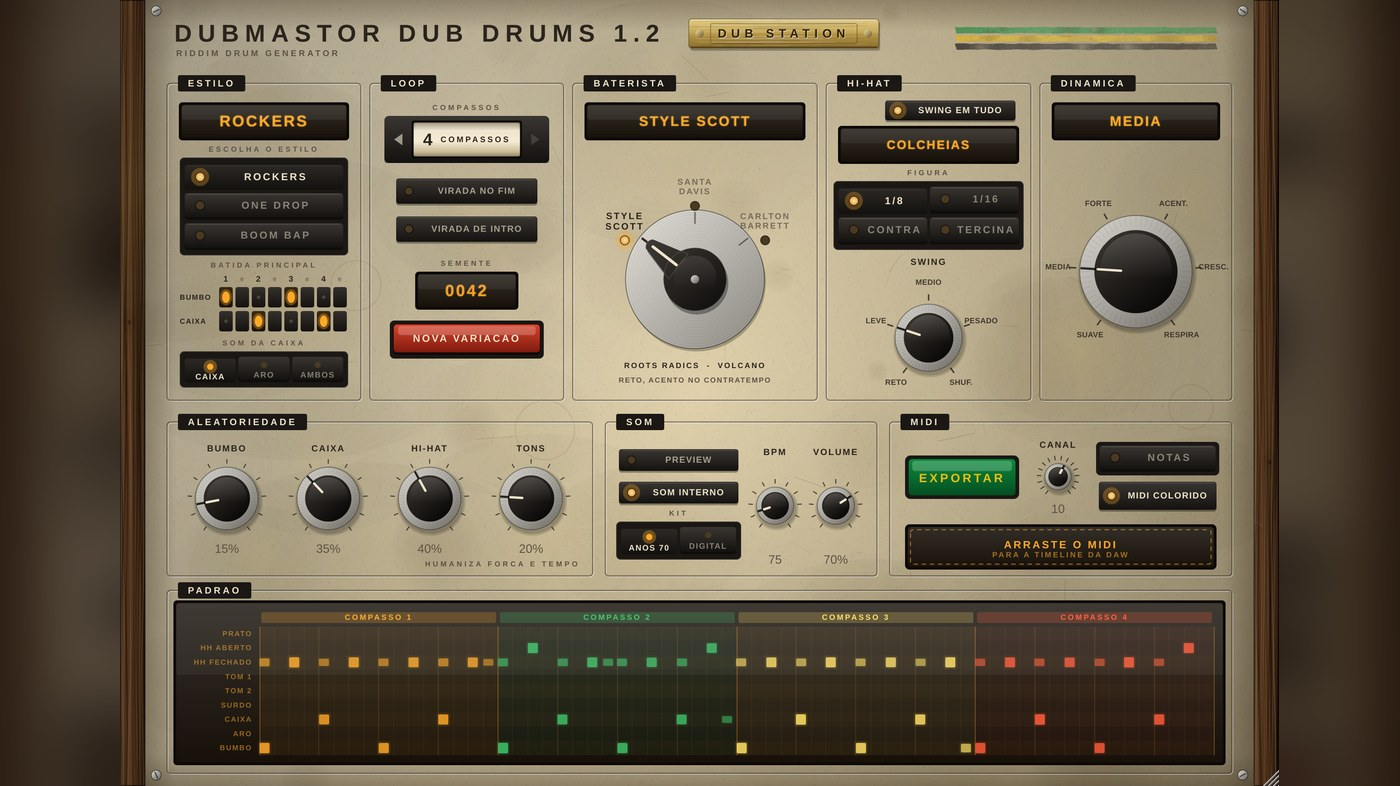
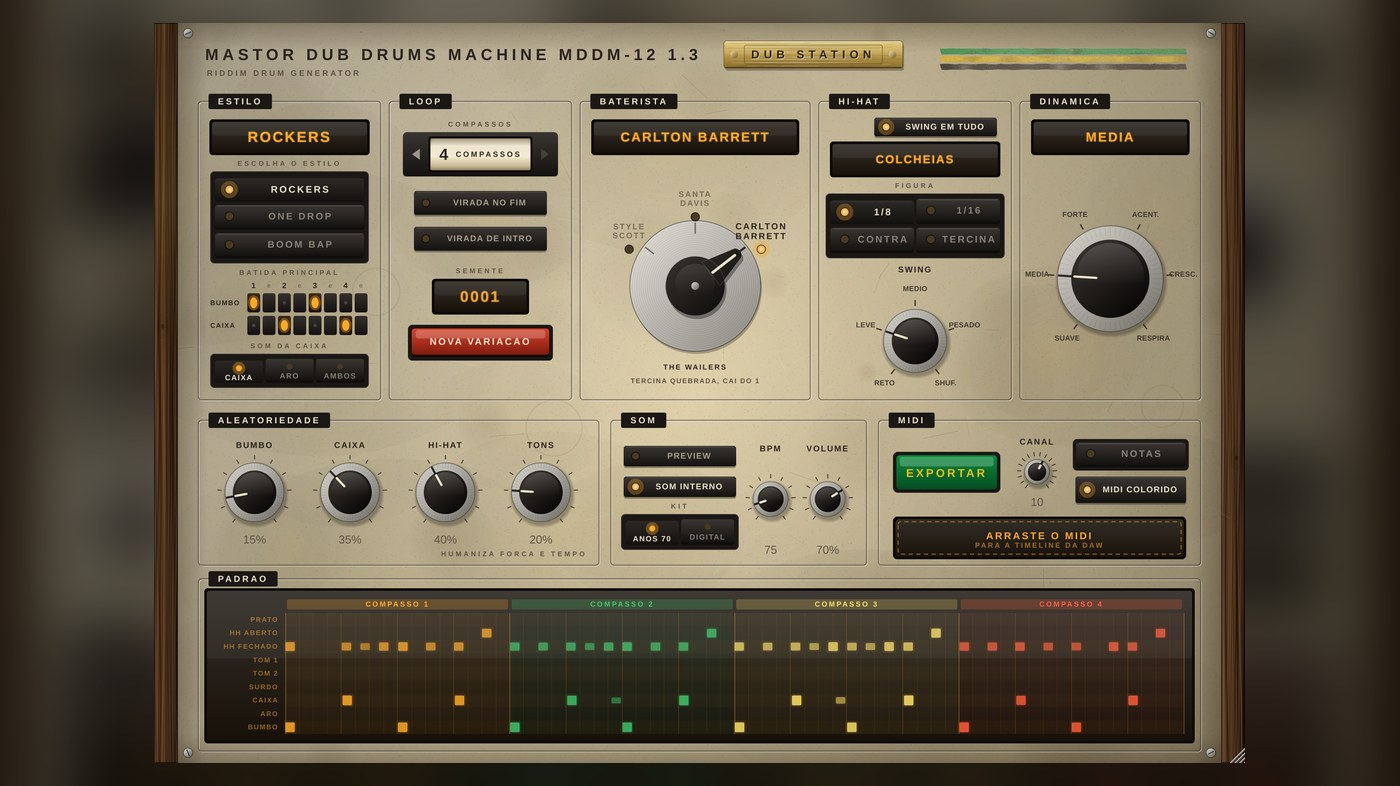
Mastor Dub Drums Machine MDDM-12 1.3 (antigo Dub Drums): nome novo em tudo
Claude-Session: https://claude.ai/code/session_01DJAeyZGCYFXEgx5qiN42Ln

diff --git a/site/index.html b/site/index.html
@@ -4,7 +4,7 @@
 <meta charset="utf-8">
 <meta name="viewport" content="width=device-width, initial-scale=1">
 <title>DubMastor — Plugins de dub (VST3 / AU)</title>
-<meta name="description" content="Baixe os plugins DubMastor Big Knob, Dub Station 2.6, DubMastor Roots Keys, Mastor Dub Chords Machine, Mastor Reggae Dub Bass Instrument, Dub Drums, Mastor Bass Machine e Mastor Fone — VST3 para Windows e Mac, AU para Mac. Grátis.">
+<meta name="description" content="Baixe os plugins DubMastor Big Knob, Dub Station 2.6, DubMastor Roots Keys, Mastor Dub Chords Machine, Mastor Reggae Dub Bass Instrument, Mastor Dub Drums Machine, Mastor Bass Machine e Mastor Fone — VST3 para Windows e Mac, AU para Mac. Grátis.">
 <meta property="og:title" content="DubMastor — Plugins de dub">
 <meta property="og:description" content="Big Knob 3.2, Dub Station 2.6, DubMastor Roots Keys, Mastor Dub Chords Machine, Mastor Reggae Dub Bass Instrument MRDBI-07 1.5 e Mastor Fone: filtro estilo King Tubby, eco de fita, reverb de mola, piano M1, órgão Hammond, baixo de senoide e 808 e voz de rádio, telefone e megafone. VST3 / AU, Windows e Mac.">
 <meta property="og:image" content="img/dubstation21.jpg">
@@ -200,7 +200,7 @@
       </div>
     </div>
     <p class="signature">DubMastor</p>
-    <p class="lead"><span class="lamp" aria-hidden="true"></span>Filtro big knob estilo King Tubby, eco de fita de três cabeças, reverb de mola, o teclado DubMastor Roots Keys com piano M1 e órgão Hammond, o Dub Chords, que monta a harmonia do riddim, o Mastor Reggae Dub Bass Instrument (MRDBI-07), baixo de senoide e 808, o Dub Drums, que monta a bateria do riddim, e o Mastor Bass Machine, gerador de reggae bass lines, em plugins gratuitos para <strong>Windows</strong> e <strong>Mac</strong>. Feitos e testados para o Cubase.</p>
+    <p class="lead"><span class="lamp" aria-hidden="true"></span>Filtro big knob estilo King Tubby, eco de fita de três cabeças, reverb de mola, o teclado DubMastor Roots Keys com piano M1 e órgão Hammond, o Dub Chords, que monta a harmonia do riddim, o Mastor Reggae Dub Bass Instrument (MRDBI-07), baixo de senoide e 808, o Mastor Dub Drums Machine, que monta a bateria do riddim, e o Mastor Bass Machine, gerador de reggae bass lines, em plugins gratuitos para <strong>Windows</strong> e <strong>Mac</strong>. Feitos e testados para o Cubase.</p>
   </header>
 
   <main>
@@ -307,9 +307,9 @@
         </article>
 
         <article class="card">
-          <img class="shot" src="img/dubdrums.jpg" alt="Interface do DubMastor Dub Drums: painel creme com módulos de estilo, loop, hi-hat com a chave do baterista e dinâmica; abaixo, aleatoriedade, som e MIDI, e a grade da bateria com uma cor para cada compasso" width="1400" height="786" loading="lazy">
+          <img class="shot" src="img/dubdrums.jpg" alt="Interface do Mastor Dub Drums Machine MDDM-12: painel creme com módulos de estilo, loop, hi-hat com a chave do baterista e dinâmica; abaixo, aleatoriedade, som e MIDI, e a grade da bateria com uma cor para cada compasso" width="1400" height="786" loading="lazy">
           <div class="body">
-            <h3>Dub Drums <small>1.1</small></h3>
+            <h3>Mastor Dub Drums Machine MDDM-12 <small>1.3</small></h3>
             <p>Gerador do esqueleto da bateria de reggae: escolha o estilo, os compassos e o baterista, e o groove sai pronto, com viradas, no andamento da DAW.</p>
             <ul>
               <li>Rockers, One Drop e Boom Bap anos 90, com caixa no 2 e no 4 e bumbo/caixa editáveis por colcheia</li>
@@ -320,8 +320,8 @@
             </ul>
             <div class="formats">Instrumento / gerador MIDI · Windows: VST3 + standalone · Mac: VST3, AU + standalone (Intel e Apple Silicon)</div>
             <div class="dl">
-              <a class="btn" href="https://github.com/dubmastor/DubMastor-DubStation-/releases/download/DubDrums-1.1/DubMastorDubDrums-Windows.zip">⬇ Windows<span>VST3 · zip</span></a>
-              <a class="btn alt" href="https://github.com/dubmastor/DubMastor-DubStation-/releases/download/DubDrums-1.1/DubMastorDubDrums-macOS.zip">⬇ Mac<span>VST3 + AU · zip</span></a>
+              <a class="btn" href="https://github.com/dubmastor/DubMastor-DubStation-/releases/download/MDDM-12-1.3/MastorDubDrumsMachine-Windows.zip">⬇ Windows<span>VST3 · zip</span></a>
+              <a class="btn alt" href="https://github.com/dubmastor/DubMastor-DubStation-/releases/download/MDDM-12-1.3/MastorDubDrumsMachine-macOS.zip">⬇ Mac<span>VST3 + AU · zip</span></a>
             </div>
           </div>
         </article>
@@ -393,13 +393,13 @@ xattr -dr com.apple.quarantine ~/Library/Audio/Plug-Ins/VST3/"DubMastor Roots Ke
 xattr -dr com.apple.quarantine ~/Library/Audio/Plug-Ins/VST3/"Mastor Fone.vst3"
 xattr -dr com.apple.quarantine ~/Library/Audio/Plug-Ins/VST3/"Mastor Dub Chords Machine MDCM-404.vst3"
 xattr -dr com.apple.quarantine ~/Library/Audio/Plug-Ins/VST3/"Mastor Reggae Dub Bass Instrument MRDBI-07.vst3"
-xattr -dr com.apple.quarantine ~/Library/Audio/Plug-Ins/VST3/"DubMastor Dub Drums.vst3"
+xattr -dr com.apple.quarantine ~/Library/Audio/Plug-Ins/VST3/"Mastor Dub Drums Machine MDDM-12.vst3"
 xattr -dr com.apple.quarantine ~/Library/Audio/Plug-Ins/VST3/"Mastor Bass Machine MBM-710.vst3"</pre></li>
             <li>Abra o Cubase.</li>
           </ol>
         </div>
       </div>
-      <p class="note"><strong>O plugin não apareceu?</strong> No Cubase, abra <em>Studio → VST Plug-in Manager</em> e faça um novo scan; se ele estiver na lista de bloqueados, clique em <em>Reactivate</em>. Na lista de plugins, o Dub Station aparece como <strong>FitaEco TE-12</strong>, do fabricante DubMastor. O <strong>DubMastor Roots Keys</strong>, o <strong>Dub Chords</strong>, o <strong>Mastor Reggae Dub Bass Instrument</strong>, o <strong>Dub Drums</strong> e o <strong>Mastor Bass Machine</strong> são instrumentos: carregue-os numa <em>Instrument Track</em>, não como efeito.</p>
+      <p class="note"><strong>O plugin não apareceu?</strong> No Cubase, abra <em>Studio → VST Plug-in Manager</em> e faça um novo scan; se ele estiver na lista de bloqueados, clique em <em>Reactivate</em>. Na lista de plugins, o Dub Station aparece como <strong>FitaEco TE-12</strong>, do fabricante DubMastor. O <strong>DubMastor Roots Keys</strong>, o <strong>Dub Chords</strong>, o <strong>Mastor Reggae Dub Bass Instrument</strong>, o <strong>Mastor Dub Drums Machine</strong> e o <strong>Mastor Bass Machine</strong> são instrumentos: carregue-os numa <em>Instrument Track</em>, não como efeito.</p>
     </section>
   </main>
 

diff --git a/DubDrums/Source/PluginEditor.cpp b/DubDrums/Source/PluginEditor.cpp
@@ -1,4 +1,4 @@
-// Interface do Dub Drums — visual copiado do DubMastor Dub Chords
+// Interface do Mastor Dub Drums Machine MDDM-12 (antigo Dub Drums) — visual copiado do DubMastor Dub Chords
 #include "PluginEditor.h"
 
 #ifndef DD_VERSION_SHORT
@@ -396,8 +396,14 @@ void DubDrumsPanel::renderBackground()
 
     // --- cabeçalho
     g.setColour (colours::ink);
-    g.setFont (stencil (30.0f, 0.22f));
-    const juce::String title ("DUBMASTOR DUB DRUMS " DD_VERSION_SHORT);   // padrão: versão logo depois do nome
+    const juce::String title ("MASTOR DUB DRUMS MACHINE MDDM-12 " DD_VERSION_SHORT);   // padrão: versão logo depois do nome
+    {   // nome comprido: diminui a fonte até o título + a placa DUB STATION caberem antes das faixas da bandeira
+        float fs = 30.0f;
+        const float maxW = (float) plate.getWidth() - 330.0f - 32.0f - 26.0f - 250.0f;
+        while (fs > 20.0f && juce::GlyphArrangement::getStringWidth (stencil (fs, 0.22f), title) > maxW)
+            fs -= 1.0f;
+        g.setFont (stencil (fs, 0.22f));
+    }
     g.drawText (title, plate.getX() + 32, 20, 760, 34, juce::Justification::left);
     const float titleRight = (float) plate.getX() + 32.0f + juce::GlyphArrangement::getStringWidth (g.getCurrentFont(), title);
 
@@ -945,7 +951,7 @@ int DubDrumsPanel::choice (const char* id) const
 
 void DubDrumsPanel::exportMidi()
 {
-    auto dir = juce::File::getSpecialLocation (juce::File::userDocumentsDirectory).getChildFile ("Dub Drums");
+    auto dir = juce::File::getSpecialLocation (juce::File::userDocumentsDirectory).getChildFile ("Mastor Dub Drums Machine");
     dir.createDirectory();
     chooser = std::make_unique<juce::FileChooser> ("Salvar bateria em MIDI", dir.getChildFile (proc.suggestedFileName()), "*.mid");
     chooser->launchAsync (juce::FileBrowserComponent::saveMode

diff --git a/DubDrums/Source/PluginProcessor.cpp b/DubDrums/Source/PluginProcessor.cpp
@@ -337,7 +337,7 @@ void DubDrumsProcessor::processBlock (juce::AudioBuffer<float>& buffer, juce::Mi
 juce::String DubDrumsProcessor::suggestedFileName() const
 {
     const auto s = readSettings();
-    juce::String name = juce::String ("DubDrums_") + dubdrums::styleName (s.style)
+    juce::String name = juce::String ("MDDM-12_") + dubdrums::styleName (s.style)
                       + "_" + dubdrums::drummerName (s.drummer)
                       + "_" + juce::String (s.bars) + "comp" + (s.intro ? "_intro" : "") + "_s" + juce::String ((int) s.seed);
     return name.replaceCharacter (' ', '-') + ".mid";
@@ -350,7 +350,7 @@ bool DubDrumsProcessor::writeMidiFile (const juce::File& target) const
     const double intro = p.introLengthInBeats;
 
     juce::MidiMessageSequence seq;
-    seq.addEvent (juce::MidiMessage::textMetaEvent (3, "Dub Drums"), 0.0);
+    seq.addEvent (juce::MidiMessage::textMetaEvent (3, "MDDM-12"), 0.0);
     seq.addEvent (juce::MidiMessage::timeSignatureMetaEvent (4, 4), 0.0);
 
     // marcadores com o nome de cada compasso (aparecem na régua de DAWs que importam marcadores)

diff --git a/DubDrums/Source/PluginProcessor.h b/DubDrums/Source/PluginProcessor.h
@@ -22,7 +22,7 @@ public:
     juce::AudioProcessorEditor* createEditor() override;
     bool hasEditor() const override { return true; }
 
-    const juce::String getName() const override { return "DubMastor Dub Drums"; }
+    const juce::String getName() const override { return "Mastor Dub Drums Machine MDDM-12"; }
     bool acceptsMidi() const override  { return true; }
     bool producesMidi() const override { return true; }
     bool isMidiEffect() const override { return false; }

diff --git a/README.md b/README.md
@@ -8,7 +8,7 @@ Plugins de dub por **DubMastor**, em VST3 (Windows e Mac) e AU (Mac). Feitos e t
 
 [![Mastor Riddim Machine MRM-0420](RiddimMachine/docs/interface-harmonia.png)](RiddimMachine/)
 
-**O Dub Chords e o Dub Drums num instrumento só.** Monte os acordes na aba **HARMONIA**, a bateria na aba
+**O Dub Chords e o Mastor Dub Drums Machine num instrumento só.** Monte os acordes na aba **HARMONIA**, a bateria na aba
 **BATERIA**, aperte **PLAY RIDDIM** para ouvir tudo junto e **arraste o riddim inteiro** (bateria, skank e
 bubble, já alinhados, de 4 a 64 compassos) para a timeline. Um projeto começa em segundos.
 
@@ -16,12 +16,12 @@ bubble, já alinhados, de 4 a 64 compassos) para a timeline. Um projeto começa 
 
 | Plugin | O que é | Mac | Windows | Detalhes |
 |---|---|---|---|---|
-| **Mastor Riddim Machine MRM-0420 1.1** | Instrumento / gerador MIDI: Dub Chords + Dub Drums num só, em abas (HARMONIA e BATERIA), com PLAY RIDDIM, BPM ligado e ARRASTE O RIDDIM com bateria, skank e bubble alinhados (os acordes entram depois da intro) | [⬇ macOS](https://github.com/dubmastor/DubMastor-DubStation-/releases/download/MRM-0420-1.1/MRM-0420-macOS.zip) | [⬇ Windows](https://github.com/dubmastor/DubMastor-DubStation-/releases/download/MRM-0420-1.1/MRM-0420-Windows.zip) | [RiddimMachine/](RiddimMachine/) |
+| **Mastor Riddim Machine MRM-0420 1.1** | Instrumento / gerador MIDI: Dub Chords + MDDM-12 num só, em abas (HARMONIA e BATERIA), com PLAY RIDDIM, BPM ligado e ARRASTE O RIDDIM com bateria, skank e bubble alinhados (os acordes entram depois da intro) | [⬇ macOS](https://github.com/dubmastor/DubMastor-DubStation-/releases/download/MRM-0420-1.1/MRM-0420-macOS.zip) | [⬇ Windows](https://github.com/dubmastor/DubMastor-DubStation-/releases/download/MRM-0420-1.1/MRM-0420-Windows.zip) | [RiddimMachine/](RiddimMachine/) |
 | **DubMastor Big Knob 3.2** | Estação de dub: filtro big knob estilo King Tubby (com bypass), eco de fita com cabeçotes, presets de EQ e liga/desliga, sirene de dub, VUs e maximizer | [⬇ macOS](https://github.com/dubmastor/DubMastor-DubStation-/releases/latest/download/DubMastorBigKnob-macOS.zip) | [⬇ Windows](https://github.com/dubmastor/DubMastor-DubStation-/releases/latest/download/DubMastorBigKnob-Windows.zip) | [BigKnob/](BigKnob/) |
 | **DubMastor Roots Keys 2.3** | Instrumento: piano estilo Korg M1 e órgão estilo Hammond com Leslie, eco de fita FitaEco, flanger dub, maximizer, VUs e teclado que acende com o MIDI; aba **Dub Chords** com acordes de duas mãos (6 notas) para montar o riddim e arrastar o MIDI para a DAW; visual de teclado anos 80 no piano e de madeira e marfim no órgão | [⬇ macOS](https://github.com/dubmastor/DubMastor-DubStation-/releases/download/RootsKeys-2.3/DubMastorRootsKeys-macOS.zip) | [⬇ Windows](https://github.com/dubmastor/DubMastor-DubStation-/releases/download/RootsKeys-2.3/DubMastorRootsKeys-Windows.zip) | [RootsKeys/](RootsKeys/) |
 | **Mastor Dub Chords Machine MDCM-404 1.4** | Instrumento / gerador MIDI: escolha até 4 acordes (teclado mecânico, maior/menor, inversões com sugestão automática, contador de compassos) e ele toca o skank de piano M1 com as duas mãos e o bubble de Hammond no andamento da DAW; arraste o MIDI colorido por acorde para a timeline | [⬇ macOS](https://github.com/dubmastor/DubMastor-DubStation-/releases/download/MDCM-404-1.4/MastorDubChordsMachine-macOS.zip) | [⬇ Windows](https://github.com/dubmastor/DubMastor-DubStation-/releases/download/MDCM-404-1.4/MastorDubChordsMachine-Windows.zip) | [DubChords/](DubChords/) |
 | **Mastor Reggae Dub Bass Instrument MRDBI-07 1.5** | Instrumento (antigo Dub Bass): baixo de reggae Bass (senoide), Super Tone (digital King Jammy) ou 808, envelope gráfico, saturação com válvula animada ou fita de rolo, EQ editável na tela, reverb, bass boost em 60 Hz, teclado C1–C4 e maximizer com VU digital estilo Ozone | [⬇ macOS](https://github.com/dubmastor/DubMastor-DubStation-/releases/download/MRDBI-07-1.5/MastorReggaeDubBassInstrument-macOS.zip) | [⬇ Windows](https://github.com/dubmastor/DubMastor-DubStation-/releases/download/MRDBI-07-1.5/MastorReggaeDubBassInstrument-Windows.zip) | [DubBass/](DubBass/) |
-| **DubMastor Dub Drums 1.1** | Instrumento / gerador MIDI: esqueleto da bateria de reggae (Rockers, One Drop) e Boom Bap, com caixa no 2 e no 4 e bumbo/caixa editáveis por colcheia, com chave de baterista (Style Scott, Santa Davis, Carlton Barrett) com a assinatura de hi-hat e as viradas de cada um, caixa/aro, virada de intro, kit anos 70 ou digital (King Jammy / Sleng Teng), MIDI colorido por compasso e mapa de notas | [⬇ macOS](https://github.com/dubmastor/DubMastor-DubStation-/releases/download/DubDrums-1.1/DubMastorDubDrums-macOS.zip) | [⬇ Windows](https://github.com/dubmastor/DubMastor-DubStation-/releases/download/DubDrums-1.1/DubMastorDubDrums-Windows.zip) | [DubDrums/](DubDrums/) |
+| **Mastor Dub Drums Machine MDDM-12 1.3** | Instrumento / gerador MIDI: esqueleto da bateria de reggae (Rockers, One Drop) e Boom Bap, com caixa no 2 e no 4 e bumbo/caixa editáveis por colcheia, com chave de baterista (Style Scott, Santa Davis, Carlton Barrett) com a assinatura de hi-hat e as viradas de cada um, caixa/aro, virada de intro, kit anos 70 ou digital (King Jammy / Sleng Teng), MIDI colorido por compasso e mapa de notas | [⬇ macOS](https://github.com/dubmastor/DubMastor-DubStation-/releases/download/MDDM-12-1.3/MastorDubDrumsMachine-macOS.zip) | [⬇ Windows](https://github.com/dubmastor/DubMastor-DubStation-/releases/download/MDDM-12-1.3/MastorDubDrumsMachine-Windows.zip) | [DubDrums/](DubDrums/) |
 | **Mastor Bass Machine MBM-710 2.3** | Instrumento / gerador de reggae bass lines em MIDI: botoeira com 7 baixistas (Family Man, Flabba, Derrick Barnett, Robbie, Leroy Sibbles, Fully Fullwood, Jammys/Sleng Teng) sobre até 4 acordes; preview com os timbres do Dub Bass (Roots Sine e Super Tone), bateria de acompanhamento (Roots, One Drop, Digital, Dancehall) e teclado do Roots Keys; arraste o MIDI para a timeline | [⬇ macOS](https://github.com/dubmastor/DubMastor-DubStation-/releases/download/BassMachine-2.3/MastorBassMachine-macOS.zip) | [⬇ Windows](https://github.com/dubmastor/DubMastor-DubStation-/releases/download/BassMachine-2.3/MastorBassMachine-Windows.zip) | [BassMachine/](BassMachine/) |
 | **Mastor Dub Horns 1.1** | Instrumento: naipe de metais anos 70 (trompete, flugel, saxes e trombone) com harmonia no tom, timbres de estúdio jamaicano, Mastor Tape Echo, EQ gráfico de 10 bandas com Filtro Tubby e frases MIDI (ataques estilo Dean Fraser e introduções) com notas escolhidas por você | [⬇ macOS](https://github.com/dubmastor/DubMastor-DubStation-/releases/download/MastorDubHorns-1.1/MastorDubHorns-macOS.zip) | [⬇ Windows](https://github.com/dubmastor/DubMastor-DubStation-/releases/download/MastorDubHorns-1.1/MastorDubHorns-Windows.zip) | [MastorDubHorns/](MastorDubHorns/) |
 | **Mastor Fone 1.6** | Efeito de voz: rádio AM, telefone antigo e megafone, com o eco de fita e o maximizer do Big Knob, no visual Dub Station | [⬇ macOS](https://github.com/dubmastor/DubMastor-DubStation-/releases/latest/download/MastorFone-macOS.zip) | [⬇ Windows](https://github.com/dubmastor/DubMastor-DubStation-/releases/latest/download/MastorFone-Windows.zip) | [MastorFone/](MastorFone/) |
@@ -43,7 +43,7 @@ Todos os downloads ficam na página de **[Releases](https://github.com/dubmastor
    xattr -dr com.apple.quarantine ~/Library/Audio/Plug-Ins/VST3/"Mastor Fone.vst3"
    xattr -dr com.apple.quarantine ~/Library/Audio/Plug-Ins/VST3/"Mastor Dub Chords Machine MDCM-404.vst3"
    xattr -dr com.apple.quarantine ~/Library/Audio/Plug-Ins/VST3/"Mastor Reggae Dub Bass Instrument MRDBI-07.vst3"
-   xattr -dr com.apple.quarantine ~/Library/Audio/Plug-Ins/VST3/"DubMastor Dub Drums.vst3"
+   xattr -dr com.apple.quarantine ~/Library/Audio/Plug-Ins/VST3/"Mastor Dub Drums Machine MDDM-12.vst3"
    xattr -dr com.apple.quarantine ~/Library/Audio/Plug-Ins/VST3/"Mastor Bass Machine MBM-710.vst3"
    xattr -dr com.apple.quarantine ~/Library/Audio/Plug-Ins/VST3/"Mastor Dub Horns.vst3"
    xattr -dr com.apple.quarantine ~/Library/Audio/Plug-Ins/VST3/"Mastor Riddim Machine MRM-0420.vst3"
@@ -68,10 +68,10 @@ RootsKeys/                       DubMastor Roots Keys — piano M1 + órgão Ham
 MastorFone/                      Mastor Fone — rádio AM, telefone e megafone para voz (C++ / JUCE 8)
 DubChords/                       Mastor Dub Chords Machine MDCM-404 — gerador de skank/harmonia para riddim (C++ / JUCE 8)
 DubBass/                         Mastor Reggae Dub Bass Instrument MRDBI-07 — baixo de reggae Bass / Super Tone / 808 (C++ / JUCE 8)
-DubDrums/                        DubMastor Dub Drums — gerador de bateria de reggae com bateria interna (C++ / JUCE 8)
-BassMachine/                     Mastor Bass Machine MBM-710 — gerador de reggae bass lines (preview com Dub Bass, Dub Drums e Roots Keys) (C++ / JUCE 8)
+DubDrums/                        Mastor Dub Drums Machine MDDM-12 — gerador de bateria de reggae com bateria interna (C++ / JUCE 8)
+BassMachine/                     Mastor Bass Machine MBM-710 — gerador de reggae bass lines (preview com Dub Bass, Mastor Dub Drums Machine e Roots Keys) (C++ / JUCE 8)
 MastorDubHorns/                  Mastor Dub Horns — naipe de metais anos 70 + Mastor Tape Echo (C++ / JUCE 8)
-RiddimMachine/                   Mastor Riddim Machine MRM-0420 — Dub Chords + Dub Drums em abas (C++ / JUCE 8)
+RiddimMachine/                   Mastor Riddim Machine MRM-0420 — Dub Chords + MDDM-12 em abas (C++ / JUCE 8)
 .github/workflows/
   build-bigknob.yml              compila, valida e publica o Big Knob
   build-dubstation21.yml         compila, valida e publica o Dub Station 2.6
@@ -79,7 +79,7 @@ RiddimMachine/                   Mastor Riddim Machine MRM-0420 — Dub Chords +
   build-mastorfone.yml           compila, valida e publica o Mastor Fone
   build-dubchords.yml            compila, valida e publica o MDCM-404
   build-dubbass.yml              testa, compila, valida e publica o MRDBI-07 (release MRDBI-07-x.y a cada versão)
-  build-dubdrums.yml             testa, compila, valida e publica o Dub Drums (release DubDrums-x.y a cada versão)
+  build-dubdrums.yml             testa, compila, valida e publica o MDDM-12 (release MDDM-12-x.y a cada versão)
   build-bassmachine.yml          testa, compila, valida e publica o Bass Machine (release BassMachine-x.y a cada versão)
   build-mastordubhorns.yml       testa, compila, valida e publica o Mastor Dub Horns (release MastorDubHorns-x.y a cada versão)
   build-mrm0420.yml              testa, compila, valida e publica o MRM-0420 (release MRM-0420-x.y a cada versão)

diff --git a/DubDrums/RELEASE_NOTES.md b/DubDrums/RELEASE_NOTES.md
@@ -1,20 +1,17 @@
-## DubMastor Dub Drums 1.2 🟢🟡⚫
+## Mastor Dub Drums Machine MDDM-12 1.3 🟢🟡⚫
 
-- **Caixa no 2 e no 4** em todos os estilos e com todos os bateristas
-- Estilos na ordem **ROCKERS** (bumbo no 1 e no 3), **ONE DROP** (bumbo junto com a caixa no 2 e no 4) e o novo **BOOM BAP** dos anos 90, no lugar do Steppa
-- **BATIDA PRINCIPAL editável**: grade de colcheias para o bumbo e a caixa; o estilo carrega o padrão e você clica para mudar
-- **SOM DA CAIXA**: caixa, aro ou os dois
-- **VIRADA NO FIM** e **VIRADA DE INTRO** desligadas por padrão
-- Botão **NOVA VARIAÇÃO** vermelho
-- Versão logo depois do nome (**DUBMASTOR DUB DRUMS 1.2**) e placa só com **DUB STATION**
-- O **Mastor Riddim Machine 1.2** recebe as mesmas mudanças na aba BATERIA
+O **Dub Drums** agora se chama **Mastor Dub Drums Machine MDDM-12**, no mesmo padrão do MDCM-404 e do MRM-0420.
 
-Atenção: projetos salvos na 1.1 com o estilo **One Drop** ou **Steppa** abrem com outro estilo, porque a ordem dos estilos mudou. Escolha o estilo de novo.
+- Nome novo em tudo: plugin na DAW, janela (**MASTOR DUB DRUMS MACHINE MDDM-12 1.3**, placa só com **DUB STATION**), arquivos `.vst3`/`.component`/`.app`, MIDI exportado (`MDDM-12_...mid`, pasta Documentos/Mastor Dub Drums Machine) e downloads
+- Traz tudo da 1.2: caixa no 2 e no 4 em todos os estilos, ROCKERS / ONE DROP / BOOM BAP, BATIDA PRINCIPAL editável, SOM DA CAIXA, viradas desligadas por padrão e NOVA VARIAÇÃO vermelho
+
+Atenção: como o nome do plugin mudou, a DAW mostra o MDDM-12 como um plugin novo. Apague o antigo `DubMastor Dub Drums.vst3` / `.component` da pasta de plugins e troque nos projetos. Projetos salvos na 1.1 com **One Drop** ou **Steppa** abrem com outro estilo (a ordem dos estilos mudou na 1.2).
 
 É um instrumento: no Cubase, carregue numa *Instrument Track*.
-Downloads: `DubMastorDubDrums-Windows.zip` e `DubMastorDubDrums-macOS.zip`.
+Downloads: `MastorDubDrumsMachine-Windows.zip` e `MastorDubDrumsMachine-macOS.zip`.
 
 No Mac, depois de copiar o `.vst3`:
 ```
-xattr -dr com.apple.quarantine ~/Library/Audio/Plug-Ins/VST3/"DubMastor Dub Drums.vst3"
+xattr -dr com.apple.quarantine ~/Library/Audio/Plug-Ins/VST3/"Mastor Dub Drums Machine MDDM-12.vst3"
+xattr -dr com.apple.quarantine ~/Library/Audio/Plug-Ins/Components/"Mastor Dub Drums Machine MDDM-12.component"
 ```
